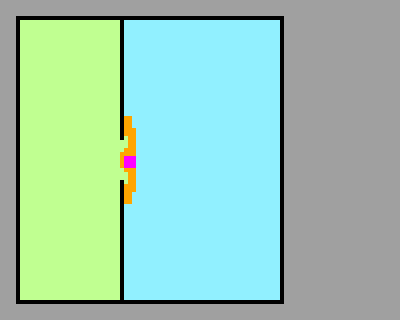
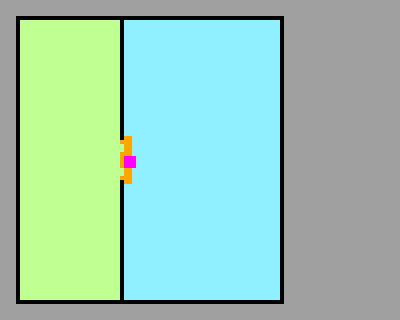
feat(segmentation): clip doorway spills, align region boundaries to doorway cut lines
- maximin flooding assigns cells near a door whose dist is below the door
  saddle to the opposite region (visible spill band on wide doors); new
  _clip_doorway_spills: for each adjacent pair, direction-sample a cut line
  at the merge-tree saddle cell, temporarily block it, reassign cells landing
  in the other component; cut-band cells assigned by neighborhood majority
  vote; keep labels unchanged when the cut does not separate the two regions
- new strict no-spill tests (zero spill on 0.5 m / 0.9 m doors);
  42 pytest passing
- grid6 unclassified 7.3% -> 4.3%, corridor4 3.9% -> 2.0%

Changed region(s): [[0.3, 0.3438, 0.36, 0.5], [0.3, 0.5312, 0.36, 0.6562]]

diff --git a/src/oomwoo_cleaning_jobs_core/oomwoo_cleaning_jobs_core/segmentation.py b/src/oomwoo_cleaning_jobs_core/oomwoo_cleaning_jobs_core/segmentation.py
@@ -63,6 +63,8 @@ class SegmentationParams:
     #: 门口记录的 likely_door 判定门宽范围（米）
     min_door_width_m: float = 0.30
     max_door_width_m: float = 1.30
+    #: 门口切割线采样时自由走向的最大延伸（米）
+    max_door_measure_m: float = 1.50
 
 
 @dataclass(frozen=True)
@@ -163,6 +165,7 @@ def segment(source_map: SourceMap, params: SegmentationParams | None = None) -> 
 
     labels = _merge_small_regions(labels, dist, free, min_cells, low_conf)
     labels = _merge_by_saddle(labels, dist, free, params.saddle_merge_ratio, low_conf)
+    labels = _clip_doorway_spills(labels, dist, free, params, res)
     labels = _mark_ridges(labels)
     doorways = _find_doorways(labels, dist, free, params, res)
 
@@ -424,6 +427,131 @@ def _find_doorways(
                 likely_door=params.min_door_width_m <= width_m <= params.max_door_width_m,
             ))
     return doorways
+
+
+def _free_run(
+    free: np.ndarray,
+    center: tuple[int, int],
+    direction: tuple[float, float],
+    max_cells: int,
+) -> tuple[list[tuple[int, int]], list[tuple[int, int]]]:
+    """从 center 沿 direction 正负两方向走，收集 free cell。
+
+    返回 (line, ends)：ends 为两側行进终止处的第一个非 free cell。"""
+    h, w = free.shape
+    line: list[tuple[int, int]] = []
+    ends: list[tuple[int, int]] = []
+    for sign in (1.0, -1.0):
+        r, c = float(center[0]), float(center[1])
+        for _ in range(max_cells):
+            r += sign * direction[0]
+            c += sign * direction[1]
+            ri, ci = int(round(r)), int(round(c))
+            if not (0 <= ri < h and 0 <= ci < w):
+                break
+            if not free[ri, ci]:
+                ends.append((ri, ci))
+                break
+            if (ri, ci) not in line:
+                line.append((ri, ci))
+    return line, ends
+
+
+def _shortest_cut_line(
+    free: np.ndarray,
+    center: tuple[int, int],
+    max_cells: int,
+) -> list[tuple[int, int]] | None:
+    """过 center 的方向采样最短自由走向（两端都须止于非 free cell）。"""
+    directions = [(float(np.sin(t)), float(np.cos(t)))
+                  for t in np.linspace(0, np.pi, 16, endpoint=False)]
+    best: list[tuple[int, int]] | None = None
+    for direction in directions:
+        line, ends = _free_run(free, center, direction, max_cells)
+        if len(ends) == 2 and (best is None or len(line) < len(best)):
+            best = line
+    return best
+
+
+def _clip_doorway_spills(
+    labels: np.ndarray,
+    dist: np.ndarray,
+    free: np.ndarray,
+    params: SegmentationParams,
+    res: float,
+) -> np.ndarray:
+    """把门口边界强制对齐到门洞切割线。
+
+    maximin 淹没按"最宽通路"分配 cell：门两侧 dist 低于门鞍的 cell 会被
+    分配给对门区域（宽门时形成可见的溢出带）。这里对每个空间相邻的
+    区域对：在合并树山口 cell（首次连通 cell，位于门洞通道内）处方向
+    采样取两端止于非 free 的最短走向作为切割线，3x3 加厚后暂时阻断，
+    把落在对方连通体里的本区域 cell 重归对方；切割带 cell 最后按邻域
+    多数表决归边。切割未能把 A∪B 分成两个分含各自峰的连通体时保持原样。
+    """
+    connections = _connection_values(labels, dist, free)
+    kernel3 = np.ones((3, 3), dtype=np.uint8)
+
+    def geo_dilate(mask: np.ndarray, steps: int = 2) -> np.ndarray:
+        out = mask & free
+        for _ in range(steps):
+            out = (cv2.dilate(out.astype(np.uint8), kernel3) > 0) & free
+        return out
+
+    values = [int(v) for v in np.unique(labels) if v != UNCLASSIFIED]
+    dilated = {v: geo_dilate(labels == v) for v in values}
+    max_cells = int(params.max_door_measure_m / res)
+    out = labels.copy()
+    for i, a in enumerate(values):
+        for b in values[i + 1:]:
+            contact = dilated[a] & dilated[b]
+            if not contact.any():
+                continue
+            conn = connections.get((a, b))
+            if conn is not None:
+                cell = conn[1]  # 合并树山口 cell
+            else:
+                contact_dist = np.where(contact, dist, -np.inf)
+                cell = tuple(int(v) for v in np.unravel_index(
+                    contact_dist.argmax(), dist.shape))
+            line = _shortest_cut_line(free, cell, max_cells)
+            if line is None:
+                continue
+            cut = np.zeros(free.shape, dtype=bool)
+            for r, c in line:
+                r0, r1 = max(0, r - 1), min(free.shape[0], r + 2)
+                c0, c1 = max(0, c - 1), min(free.shape[1], c + 2)
+                cut[r0:r1, c0:c1] = True
+            zone = ((out == a) | (out == b)) & ~cut
+            comp, _n = ndimage.label(zone, structure=np.ones((3, 3)))
+            peak_a = np.unravel_index(
+                np.where(out == a, dist, -np.inf).argmax(), dist.shape)
+            peak_b = np.unravel_index(
+                np.where(out == b, dist, -np.inf).argmax(), dist.shape)
+            comp_a, comp_b = comp[peak_a], comp[peak_b]
+            if comp_a == 0 or comp_b == 0 or comp_a == comp_b:
+                continue  # 切割未能分离两区域，保持原样
+            out[(labels == a) & (comp == comp_b)] = b
+            out[(labels == b) & (comp == comp_a)] = a
+            # 切割带 cell（被 cut 覆盖、不在任何连通体内）按邻域多数归边
+            band = ((out == a) | (out == b)) & cut
+            for _ in range(3):
+                if not band.any():
+                    break
+                assigned = False
+                for r, c in np.argwhere(band):
+                    r0, r1 = max(0, r - 1), min(out.shape[0], r + 2)
+                    c0, c1 = max(0, c - 1), min(out.shape[1], c + 2)
+                    neighbors = out[r0:r1, c0:c1]
+                    votes_a = int((neighbors == a).sum())
+                    votes_b = int((neighbors == b).sum())
+                    if votes_a != votes_b:
+                        out[r, c] = a if votes_a > votes_b else b
+                        band[r, c] = False
+                        assigned = True
+                if not assigned:
+                    break
+    return out
 
 
 def _mark_ridges(labels: np.ndarray) -> np.ndarray:

diff --git a/src/oomwoo_cleaning_jobs_core/test/test_segmentation.py b/src/oomwoo_cleaning_jobs_core/test/test_segmentation.py
@@ -90,6 +90,31 @@ def test_door_opening_not_saddle_merged():
     assert len(result.regions) == 2
 
 
+def test_doorway_clip_eliminates_spill():
+    """门口切割后，区域不得越过门平面（宽门 0.9 m 也不溢出）。
+
+    maximin 淹没本身会把门两侧 dist 低于门鞍的 cell 分给对门区域；
+    `_clip_doorway_spills` 把边界强制对齐到门洞切割线。"""
+    # 双房间：内墙 col 30，门 rows 35-44
+    source = make_two_rooms_map()
+    result = segment(source)
+    left = result.labels[40, 15]
+    right = result.labels[40, 50]
+    assert left != right and left != UNCLASSIFIED and right != UNCLASSIFIED
+    # 允许 1 cell 的边界带（脊线未分类），col 33 以右不得有左房间 cell
+    assert (result.labels[:, 33:] == left).sum() == 0
+    assert (result.labels[:, :28] == right).sum() == 0
+
+    # 宽门 0.9 m：内墙 col 32
+    wide = make_open_plan_map(opening_cells=18)
+    result = segment(wide)
+    assert len(result.regions) == 2
+    left = result.labels[17, 16]
+    right = result.labels[17, 48]
+    assert (result.labels[:, 35:] == left).sum() == 0
+    assert (result.labels[:, :30] == right).sum() == 0
+
+
 def test_open_room_degenerates_to_single_low_confidence_candidate():
     """开间只有一个距离峰：整体作为单一低置信候选。"""
     result = segment(make_open_room_map())

diff --git a/docs/DEVELOPMENT.md b/docs/DEVELOPMENT.md
@@ -64,7 +64,7 @@ hash 的角色是**变更检测器与存储键**，不是多地图管理。saved
 
 trinary 加载：`occ = 1 - color/255`（negate=0）；`occ >= occupied_thresh` → 100，`occ <= free_thresh` → 0，否则 -1；`alpha < 255` 一律 unknown；图像顶行对应地图最大 y，加载后垂直翻转。map_saver 固定写像素 0(occupied)/254(free)/205(unknown) 并配 `occupied_thresh: 0.65, free_thresh: 0.196`（205 借此回读为 unknown）。核心库加载器 `map_io.load_map_file` 与上述行为对齐，仅支持 trinary。
 
-已实现：`src/oomwoo_cleaning_jobs_core`（ament_python）含 `source_map.SourceMap`（identity/掩码）、`map_io`、`segmentation`（watershed 分割）、`render`/`render_map` CLI（`oomwoo-render-map`，`--segment` 出叠加图）；`test/` 下合成地图夹具（`fixtures`：双房间/含未知块/开间/极小房间/开放式双区/N 房间网格/走廊户型）与 41 个 pytest，`colcon build/test` 与直接 `pytest` 均已验证通过。演示输出在 `docs/demo/`（真实 living_room 与合成双房间的分割效果图）。
+已实现：`src/oomwoo_cleaning_jobs_core`（ament_python）含 `source_map.SourceMap`（identity/掩码）、`map_io`、`segmentation`（watershed 分割）、`render`/`render_map` CLI（`oomwoo-render-map`，`--segment` 出叠加图）；`test/` 下合成地图夹具（`fixtures`：双房间/含未知块/开间/极小房间/开放式双区/N 房间网格/走廊户型）与 42 个 pytest，`colcon build/test` 与直接 `pytest` 均已验证通过。演示输出在 `docs/demo/`（真实 living_room 与合成双房间的分割效果图）。
 
 分割已知特性：maximin 淹没 + 合并树鞍部合并后，真实 living_room（单房间多家具）在 ratio 0.5–0.8 全区间精确收敛为 1 个候选、0 未分类；5/6/7 房间网格、4 房间+走廊户型、贴墙家具场景均精确分出预期房间数；真门洞（0.5 m）不被误并，宽开口（1.3 m）正确合并。残留边界情形：小房间配宽门（比值 0.6–0.8 区间）可能误并/误分，由 GUI 手动编辑修正；距离值低于 `min_peak_height_m` 的狭窄地带不产生种子，留在未分类；0.5 m 宽的家具缝隙与 0.5 m 门洞在几何上不可区分（语义问题），依赖用户审核候选。
 
@@ -83,7 +83,7 @@ trinary 加载：`occ = 1 - color/255`（negate=0）；`occ >= occupied_thresh` 
 
 ### 自动分割
 
-距离变换 + 分水岭（OpenCV/scipy 实现）：free mask → distance transform → 局部极大值 markers → **maximin（最宽路径）淹没**（自实现，只在自由空间传播——`cv2.watershed` 在全图淹没会穿墙导致区域溢出，已弃用；瓶颈优先级相同按到种子的测地距离决胜，分界线落在门洞/鞍部处）→ 面积合并（小于 `min_region_area`，默认 1 m²，并入**连接最宽**的邻域——按共享边界长度会穿门漏并，已弃用）→ **鞍部合并**（`_connection_values` 超水平集合并树给出与分界线无关的真实山口高度；山口 ≥ `saddle_merge_ratio`（默认 0.8）× 较小峰高时并查集合并；真门洞比值通常 < 0.5，同片开阔地的伪分割 > 0.8）→ 脊线标记（接触带两侧各一层 cell 标为未分类）。distance peaks 退化（大开间单峰）时整体作为单一候选并标低置信。阈值均为参数。该算法是「先用它看效果」的初始策略，可替换。
+距离变换 + 分水岭（OpenCV/scipy 实现）：free mask → distance transform → 局部极大值 markers → **maximin（最宽路径）淹没**（自实现，只在自由空间传播——`cv2.watershed` 在全图淹没会穿墙导致区域溢出，已弃用；瓶颈优先级相同按到种子的测地距离决胜，分界线落在门洞/鞍部处）→ 面积合并（小于 `min_region_area`，默认 1 m²，并入**连接最宽**的邻域——按共享边界长度会穿门漏并，已弃用）→ **鞍部合并**（`_connection_values` 超水平集合并树给出与分界线无关的真实山口高度；山口 ≥ `saddle_merge_ratio`（默认 0.8）× 较小峰高时并查集合并；真门洞比值通常 < 0.5，同片开阔地的伪分割 > 0.8）→ **门口溢出裁剪**（`_clip_doorway_spills`：maximin 会把门两侧 dist 低于门鞍的 cell 分给对门区域形成溢出带；此处对每对相邻区域在合并树山口 cell 处生成切割线，暂时阻断后把落在对方连通体的 cell 重归对方，边界强制对齐门洞）→ 脊线标记（接触带两侧各一层 cell 标为未分类）。distance peaks 退化（大开间单峰）时整体作为单一候选并标低置信。阈值均为参数。该算法是「先用它看效果」的初始策略，可替换。
 
 ### Region 表示与编辑语义
 
